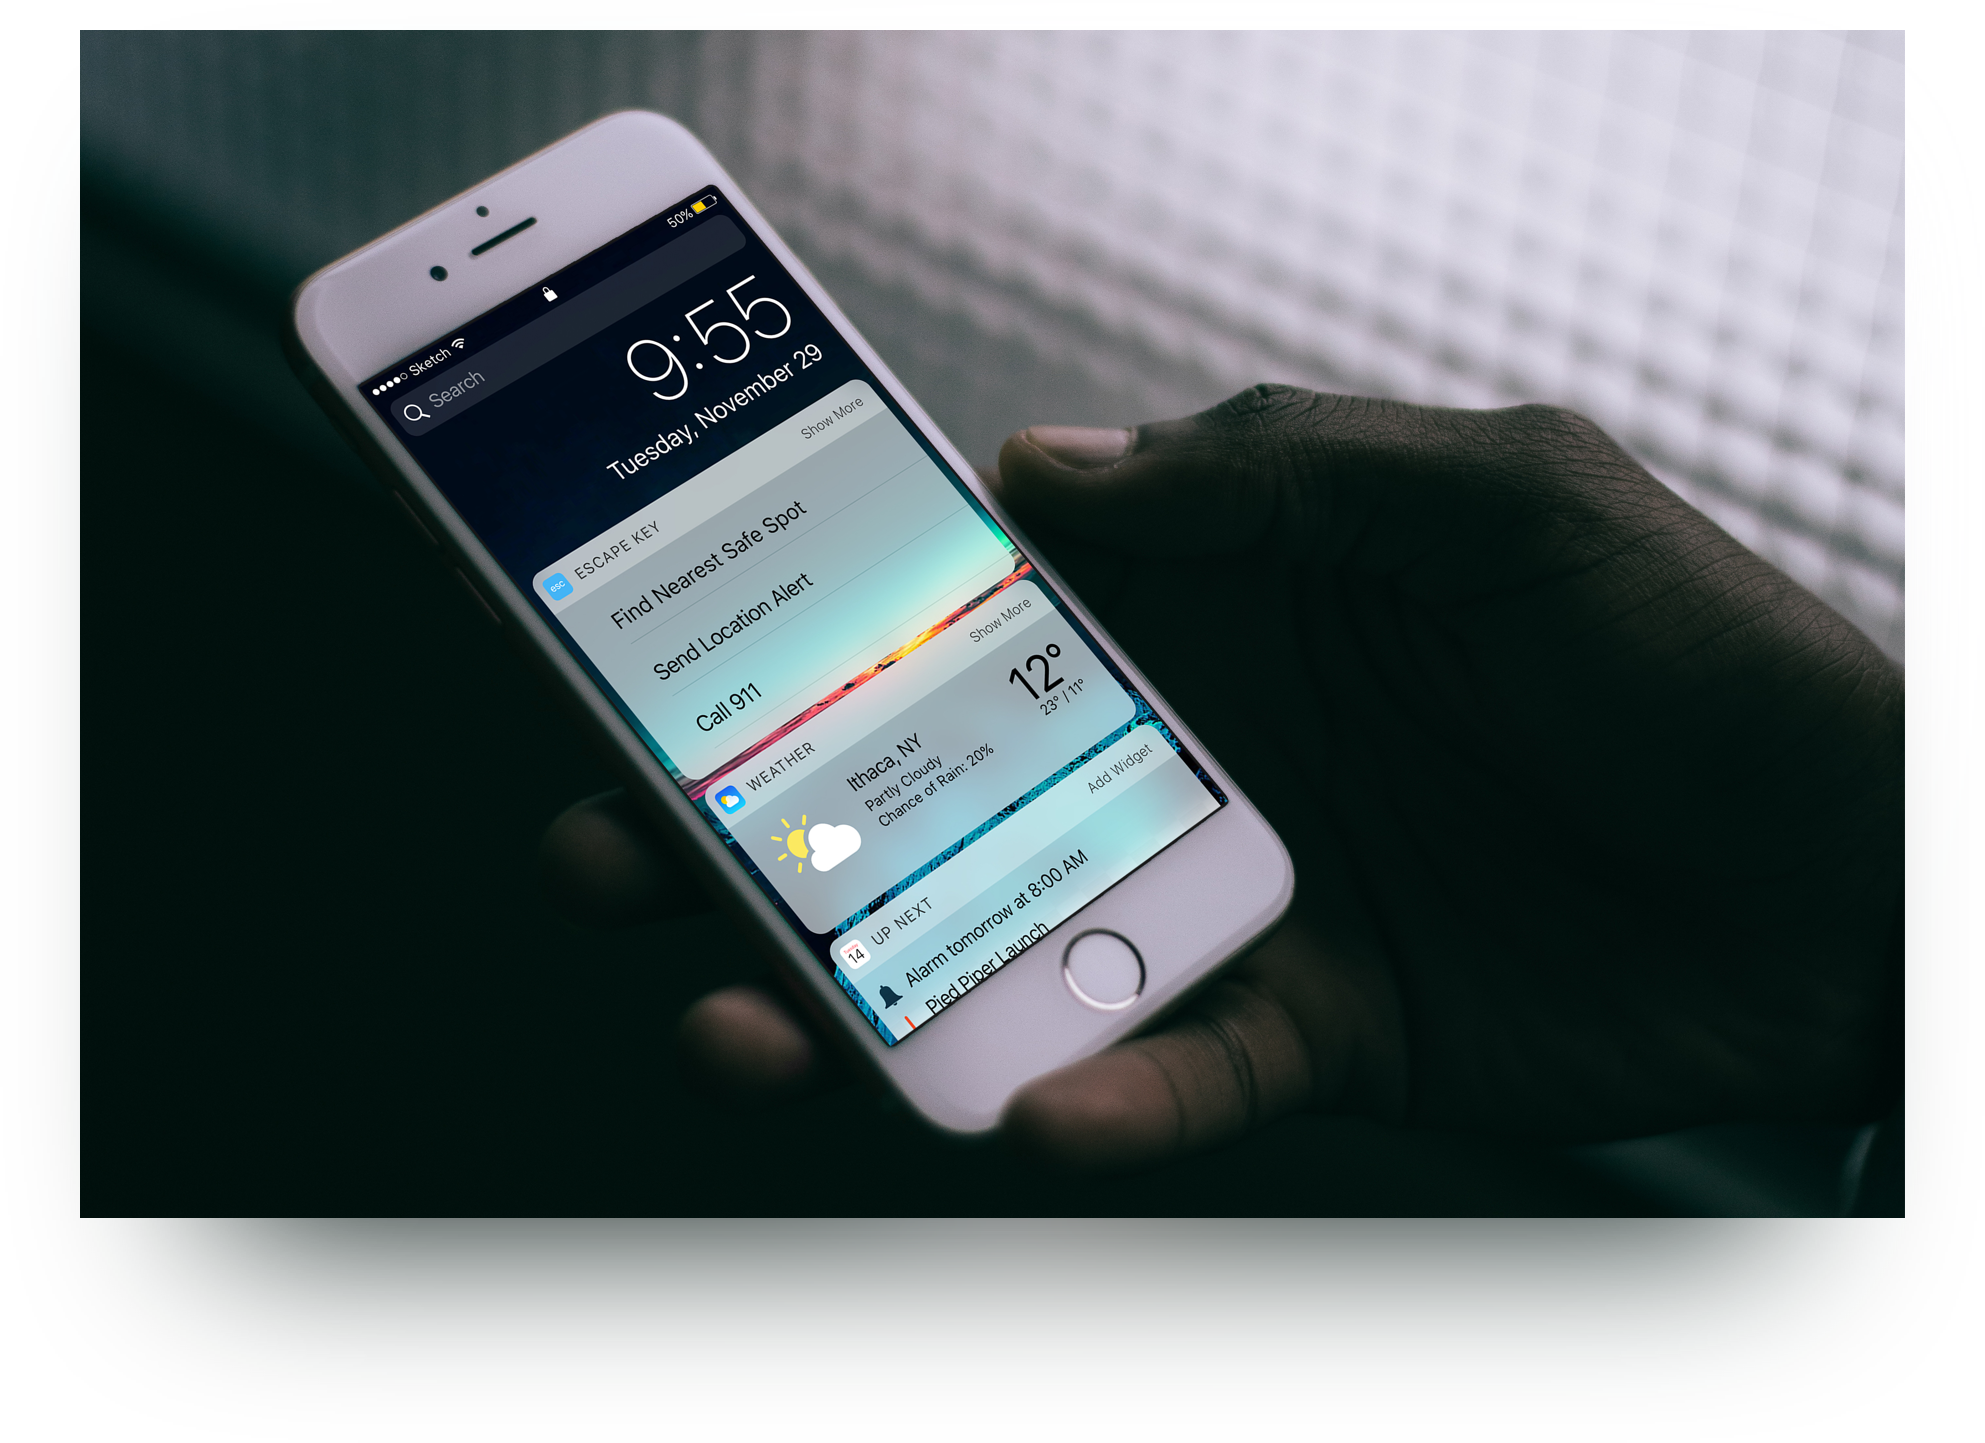
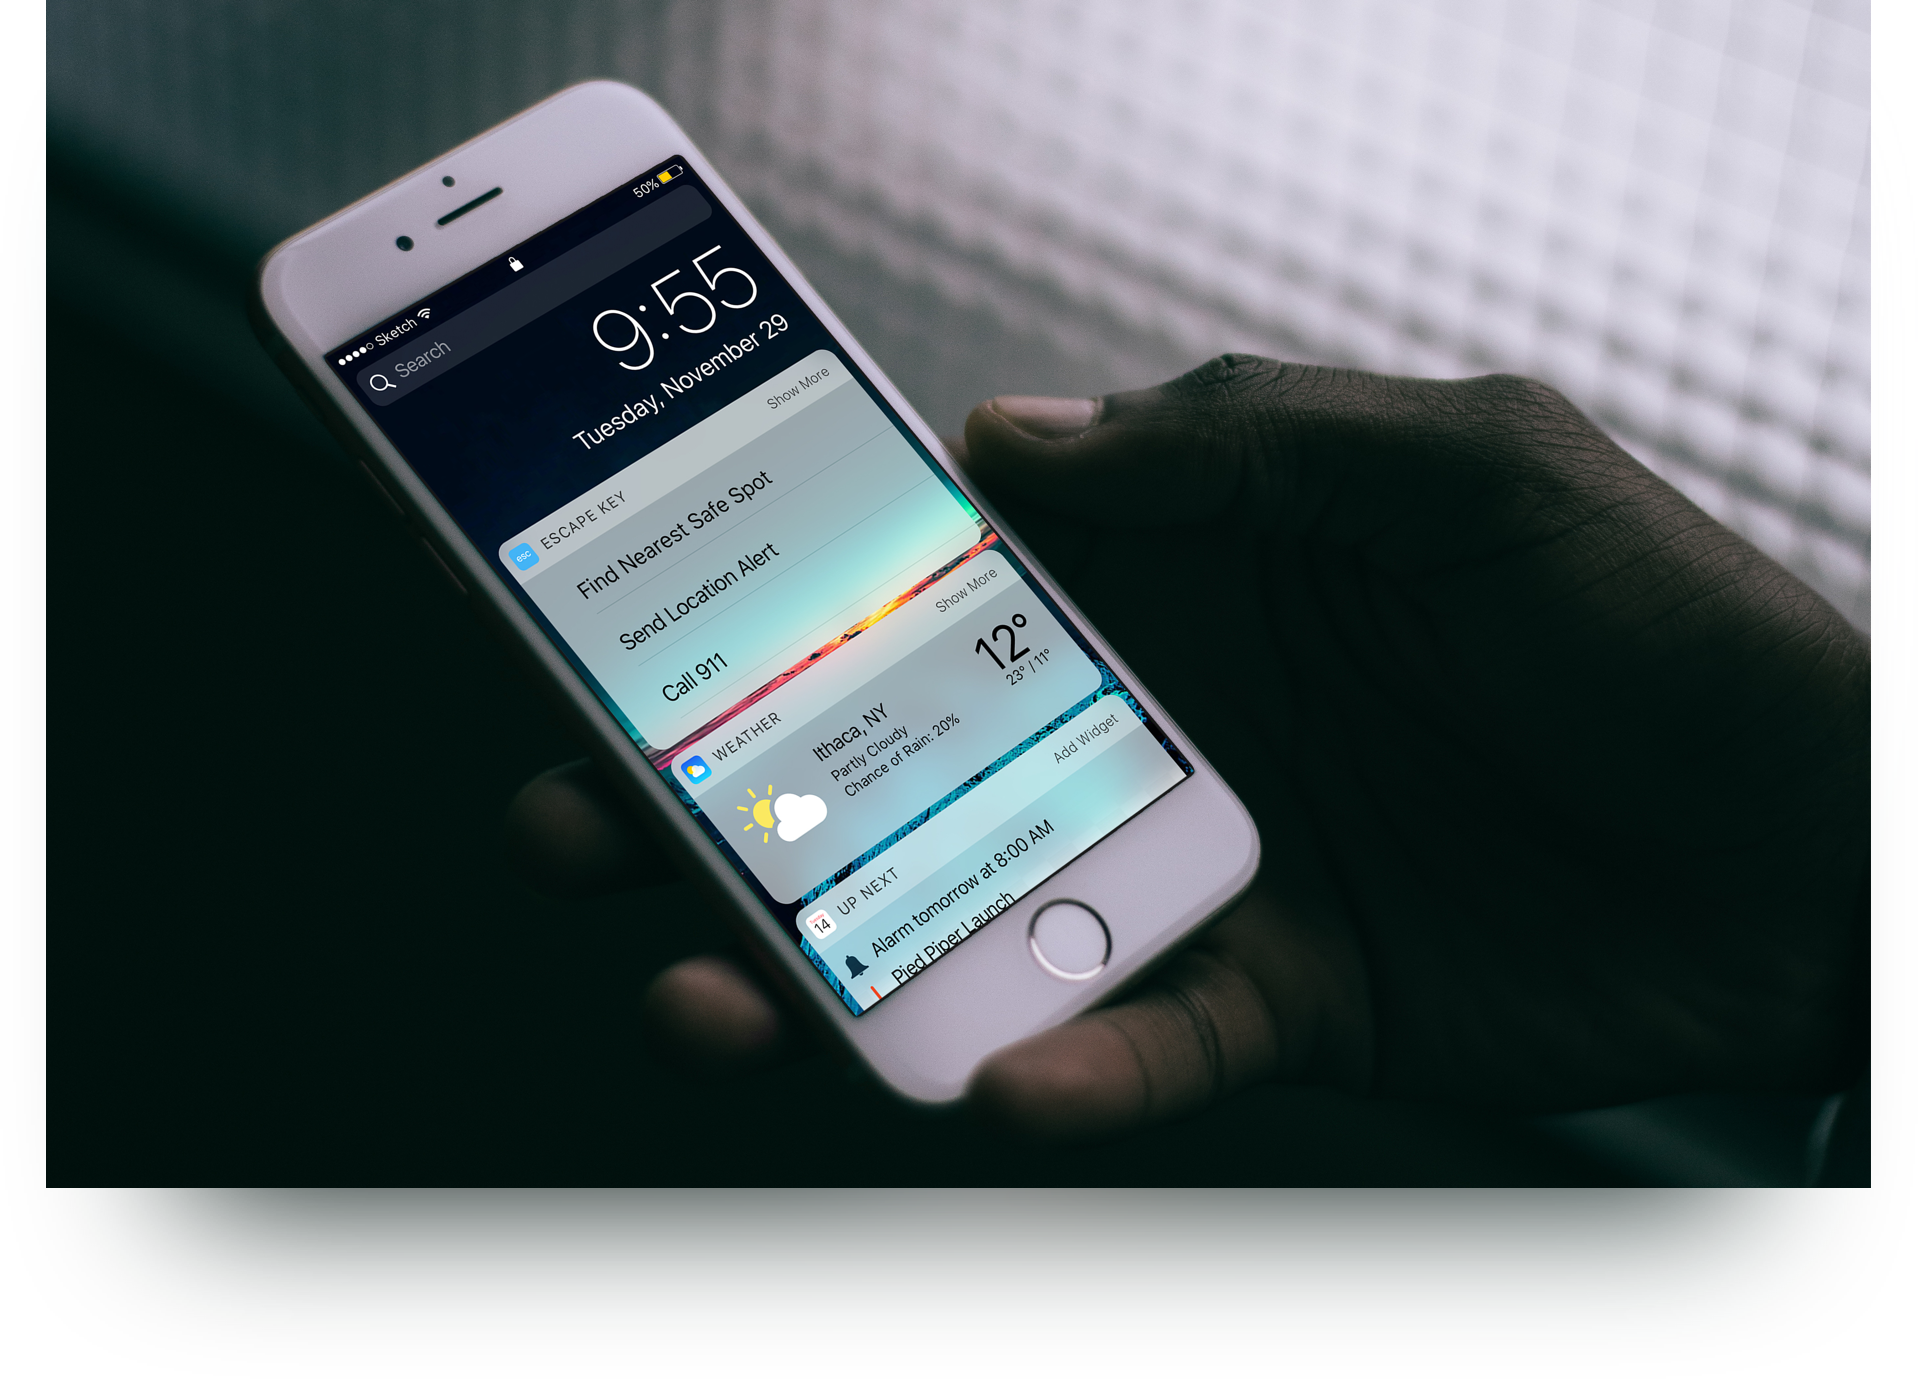
shadow 85

diff --git a/index.html b/index.html
@@ -53,7 +53,7 @@
 
   <div id="escapekey">
     <a href="https://medium.com/@jasonfwu/escape-key-a-proactive-approach-to-safety-198c6cdb572c#.9d5hsor6l">
-    <img src="images/escapekey.jpg" alt="Escape Key">
+    <img src="images/escapekeyshadow.png" alt="Escape Key">
     </a>
   </div>
 
